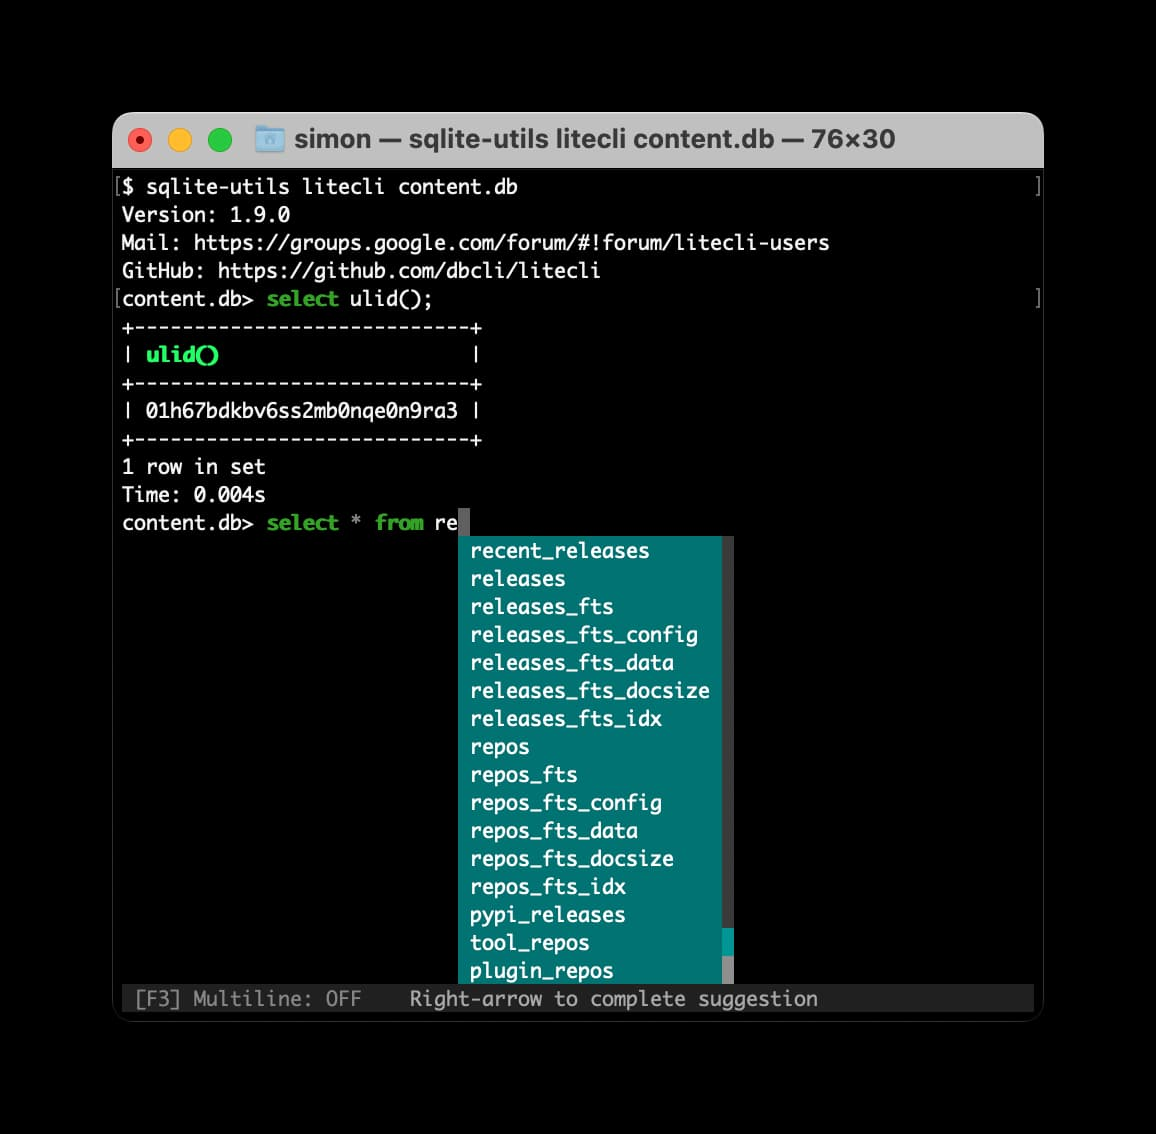
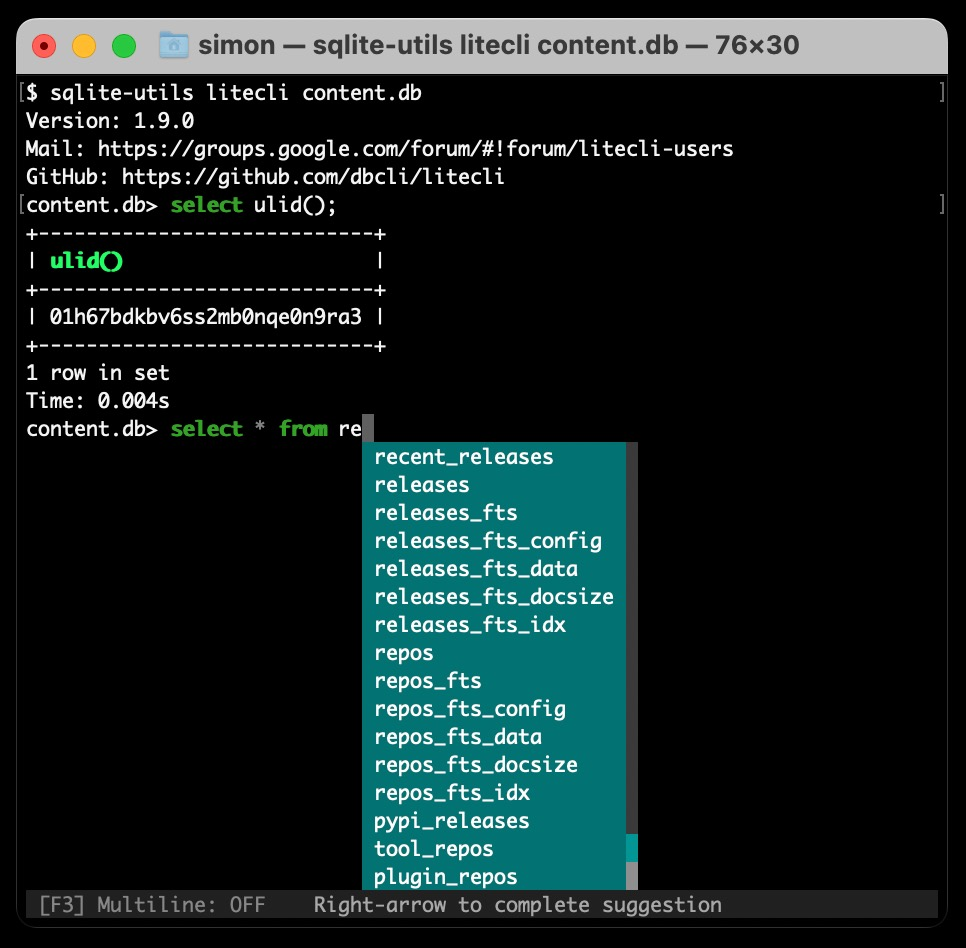
Neater screenshot

Changed region(s): [[0.0, 0.0, 0.9938, 0.9789]]

diff --git a/README.md b/README.md
@@ -24,7 +24,7 @@ This will start a `litecli` interactive shell session.
 
 Custom SQL functions provided by other plugins will be available in the shell.
 
-<img src="https://raw.githubusercontent.com/simonw/sqlite-utils-litecli/main/screenshot.jpg" width="578" height="567" alt="Screenshot showing the plugin in action - it includes autocomplete of SQLite table names">
+<img src="https://raw.githubusercontent.com/simonw/sqlite-utils-litecli/main/screenshot.jpg" width="483" height="474" alt="Screenshot showing the plugin in action - it includes autocomplete of SQLite table names">
 
 ## Development
 
